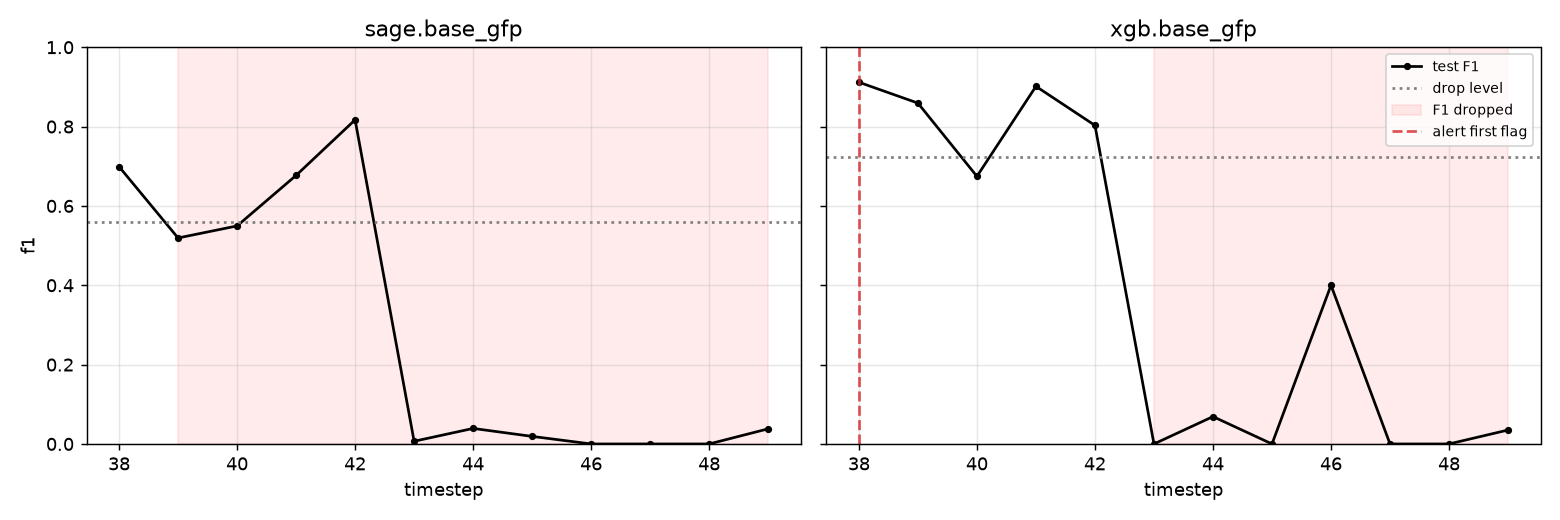
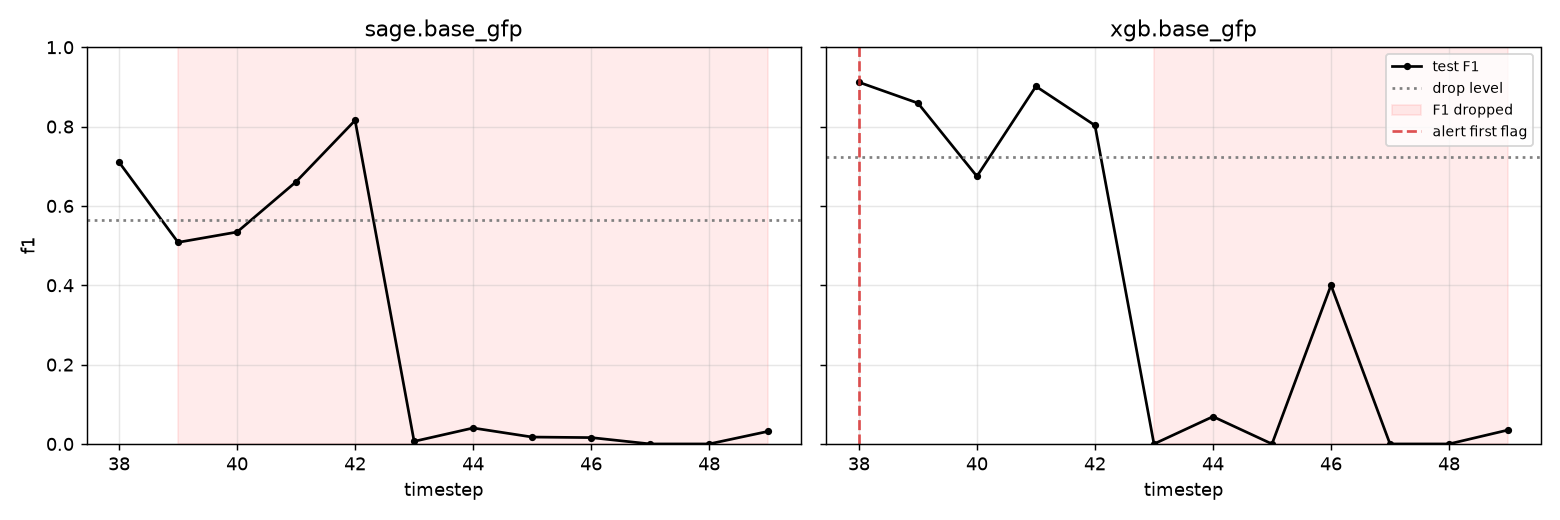
Drift rerun from a clean tree at 7a19cb9; citations and SAGE ranges corrected (PR-R4)
XGBoost rows are bit-identical to the earlier run. SAGE rows move with GPU
nondeterminism: three seeds still dip at t39 and two break at t43, the
calibrated alert flag spans 0.67-0.88 across seeds, and the SAGE event means
move by at most 0.02.

diff --git a/docs/methods.md b/docs/methods.md
@@ -385,7 +385,7 @@ Temporal split, days 0–5 / 6–7 / 8–17 (§9.1), three seeds, from `report/t
 
 On AMLworld the GFP features more than double F1, the reverse of Elliptic. The test window reaches into the post-day-10 laundering tail (§9.1), so the per-day curve (`report/tables/amlworld_xgb_curves.csv`) matters here as it does on Elliptic: on the two realistic test days (8–9) GFP takes F1 from 0.10–0.20 to 0.38–0.45, and from day 10 every config scores PR-AUC above 0.92. The SAGE rows need the Kaggle run in `kaggle/amlworld_sage.md`. The run was made from a working tree with uncommitted changes, and its `-dirty` stamp (§10.2) says so; it is rerun from a clean commit before these numbers are tagged.
 
-### 12.4 Drift monitor on the t43 shutdown (`edf06ea`)
+### 12.4 Drift monitor on the t43 shutdown (`7a19cb9`)
 
 `mulegraph drift --config configs/elliptic_drift.yaml` fits `xgb.base_gfp` and `sage.base_gfp` on the temporal split, then scores every unit from t35 to t49 with no labels (design §3.4, PR-R2). The reference is the validation window t35–37. Four detectors run per batch: maximum PSI over feature columns, the fraction of feature columns whose KS test rejects at 0.01, the KS statistic on the model's scores, and the alert rate, the absolute log ratio of the share of units at or above the validation threshold against the reference share. With textbook flags (PSI > 0.2, KS p < 0.01) every test batch is flagged, because at 2,500–7,000 rows a batch the tests reject almost anything. Each flag is therefore calibrated to the detector's largest leave-one-out score inside the reference window.
 
@@ -401,11 +401,11 @@ A model counts as broken at the first timestep that starts two consecutive batch
 | `xgb.base_gfp` | alert rate | t38 | t43 | +5 |
 | `sage.base_gfp` | all four | never | t39 (3 seeds), t43 (2 seeds) | — |
 
-No detector warns of the collapse. PSI flags t39, t41 and t46 singly and never two in a row. KS on features flags t40, t43, t47 and t49 singly. Score KS flags t49 alone. The alert rate is the one detector whose largest score sits at t43: XGBoost's alerts fall from 4.4% of scored units in the reference window to 1.5%, a score of 1.34 against a calibrated flag of 0.38, the largest signal any detector produces anywhere in the series. It does not hold because at t44 the model alerts at a normal rate again, on the wrong units (§12.5). Its held flag at t38–39 is the opposite movement: alerts rise to 7.6% and 7.3% as the labelled illicit share doubles at t38, and the lead rule, which credits the first held flag of any kind, scores that as +5. It is a flag for a different change, not a warning of the shutdown; a lead-time rule that only credits flags in the same direction as the drop would remove it, and we have not added one. For SAGE the reference timesteps disagree with each other more (calibrated alert flag 0.75–0.78 across seeds) and the alert rate never flags. The SAGE drop at t39 is a dip below the drop level that recovers by t42, not the shutdown. Feature detectors see only features, so their flags are identical across models and seeds, and XGBoost's seeds give identical fits: this is one observation of one event (§11). Tables: `report/tables/elliptic_drift_scores.csv`, `report/tables/elliptic_drift_lead_time.csv`.
+No detector warns of the collapse. PSI flags t39, t41 and t46 singly and never two in a row. KS on features flags t40, t43, t47 and t49 singly. Score KS flags t49 alone. The alert rate is the one detector whose largest score sits at t43: XGBoost's alerts fall from 4.4% of scored units in the reference window to 1.5%, a score of 1.34 against a calibrated flag of 0.38, the largest signal any detector produces anywhere in the series. It does not hold because at t44 the model alerts at a normal rate again, on the wrong units (§12.5). Its held flag at t38–39 is the opposite movement: alerts rise to 7.6% and 7.3% as the labelled illicit share doubles at t38, and the lead rule, which credits the first held flag of any kind, scores that as +5. It is a flag for a different change, not a warning of the shutdown; a lead-time rule that only credits flags in the same direction as the drop would remove it, and we have not added one. For SAGE the reference timesteps disagree with each other more (calibrated alert flag 0.67–0.88 across seeds) and the alert rate never flags. The SAGE drop at t39 is a dip below the drop level that recovers by t42, not the shutdown. Feature detectors see only features, so their flags are identical across models and seeds, and XGBoost's seeds give identical fits: this is one observation of one event (§11). Tables: `report/tables/elliptic_drift_scores.csv`, `report/tables/elliptic_drift_lead_time.csv`.
 
 ### 12.5 Why t43 breaks every model and every detector (`8c28027`)
 
-The same drift run, with `drift.event: 43`, splits the labelled test units at t43 (design §3.4 step 5, PR-R5). For each side it records how the fitted model transfers, and it refits a probe: XGBoost with library defaults, 5-fold stratified CV inside that window alone. From `report/tables/elliptic_drift_event.csv` at `8c28027`; the `edf06ea` rerun reproduces the XGBoost rows bit for bit and moves the SAGE means by under 0.01 (GPU nondeterminism, §6.2). SAGE is the mean over five seeds with the range in brackets, and XGBoost's seeds are identical.
+The same drift run, with `drift.event: 43`, splits the labelled test units at t43 (design §3.4 step 5, PR-R5). For each side it records how the fitted model transfers, and it refits a probe: XGBoost with library defaults, 5-fold stratified CV inside that window alone. From `report/tables/elliptic_drift_event.csv` at `8c28027`; the `7a19cb9` rerun reproduces the XGBoost rows bit for bit and moves the SAGE means by at most 0.02 (GPU nondeterminism, §6.2). SAGE is the mean over five seeds with the range in brackets, and XGBoost's seeds are identical.
 
 | | t38–42 | t43–49 |
 |---|---|---|

diff --git a/docs/changelog.md b/docs/changelog.md
@@ -10,7 +10,7 @@ Project history, newest first. Add a dated entry for every tag and every change 
 - **Added** the `temporal_rolling` regime (`34db885`; PR-E7). The temporal window slides forward one batch per test batch; each step is an ordinary temporal split through the same builder, leakage assertions and cache, thresholds on its own validation window (PR-E4) and scores one test batch. The step test sets are stitched into one MLflow child run per (model, seed) with a per-row threshold, so `n_seeds` counts seeds, not refits. Rank metrics are not logged for a rolling run (twelve models do not share a score scale); per-batch PR-AUC is in the curve, and each step's threshold, val_f1, val_pr_auc and best_iteration are logged at `step=t`. `configs/elliptic_rolling.yaml` runs fixed vs rolling on the two-by-two (260 fits). Design §1 narrows the out-of-scope line from "retraining-policy simulation" to policies beyond this one zero-lag refit.
 - **Added** the alert-rate detector (`ea5ecce`; PR-R1): the absolute log ratio of the share of scored units at or above the validation-chosen threshold against the reference share. It sees scores and the threshold only (PR-R2); `score_batches` takes `threshold` and `alert_flag`. `configs/elliptic_drift.yaml` runs it.
 - **Fixed** PSI (`ea5ecce`). Importing snapml enables flush-to-zero for the process, so the subnormal cut placed above a constant reference value collapsed onto it and PSI scored 0 for any shift in a constant column, on every real run. Bins are now (a, b] at every distinct reference quantile but the maximum, which also gives binary columns a cut. Found as a test that passed alone and failed after the pipeline tests; the test now imports snapml first.
-- **Reran** the drift config at `edf06ea` (3 min 26 s). With the fixed bins PSI's calibrated flag is 1.90 (was 1.52) and it never holds a flag (the t48 hold is gone); KS and score KS never hold, as before. The alert rate is the one detector whose largest score sits at t43 (1.34 against a flag of 0.38: XGBoost's alerts fall from 4.4% of units to 1.5%) but it does not hold, and its held flag at t38–39 is alerts rising with the illicit share, which the lead rule credits as +5. XGBoost event rows are bit-identical to `8c28027`; SAGE rows move by under 0.01. README, methods §12.4–12.5 and the status notes rewritten accordingly; a domain-classifier detector was probed and rejected (ROC-AUC ≥ 0.99 for every timestep against the reference).
+- **Reran** the drift config from a clean tree at `7a19cb9` (3 min 26 s). With the fixed bins PSI's calibrated flag is 1.90 (was 1.52) and it never holds a flag (the t48 hold is gone); KS and score KS never hold, as before. The alert rate is the one detector whose largest score sits at t43 (1.34 against a flag of 0.38: XGBoost's alerts fall from 4.4% of units to 1.5%) but it does not hold, and its held flag at t38–39 is alerts rising with the illicit share, which the lead rule credits as +5. XGBoost event rows are bit-identical to `8c28027`; SAGE rows move by at most 0.02. README, methods §12.4–12.5 and the status notes rewritten accordingly; a domain-classifier detector was probed and rejected (ROC-AUC ≥ 0.99 for every timestep against the reference).
 
 ### 19 Sep 2026 — Why t43 breaks everything: the event diagnosis
 - **Added** `drift.event` and `eval/event.py` (`8c28027`; PR-R5). With it set, `mulegraph drift` writes `report/tables/<experiment>_event.csv`: per side of the event batch, the fitted model's ROC-AUC, recall at the validation threshold and median illicit score, beside a 5-fold refit probe of XGBoost defaults inside that window alone. `configs/elliptic_drift.yaml` sets `event: 43`.

diff --git a/docs/project_status.md b/docs/project_status.md
@@ -28,7 +28,7 @@ Facts that constrain the code, verified on fixtures and kept here instead of in 
 - **Elliptic temporal test is two regimes in one.** Test F1 is 0.83–0.89 on t38–42 and 0.02–0.03 on t43–49, after the dark-market shutdown; 169 of the 828 test illicit nodes fall after t43. Validation (t35–37) precedes the shutdown, so val F1 ≈ 0.93 does not predict test. This is also why P@R0.8 is ≈ 0.2 for every model: reaching 80% recall means reaching into the post-shutdown cases no model detects. The per-timestep curves are what make the headline mean readable. The post-t43 window is not noise: refit inside it alone, XGBoost defaults reach CV ROC-AUC 0.985 (`elliptic_drift_event.csv`), so the shutdown changed the illicit pattern rather than erasing it.
 - **The t43 collapse is concept drift plus staleness, not overfitting, and recovery is label-count bound** (read-only probe on the cached features, 19 Sep 2026; the committed numbers are the `elliptic_rolling` run, methods §12.6). A model refit on labels up to t40 ranks post-t43 units at ROC-AUC 0.84–0.95 where the fixed t≤34 model gets 0.61–0.72, so the ranking is recoverable from one refit, but F1 stays ≤ 0.19 until t49 because only 2–36 illicit nodes exist per timestep after the shutdown and the validation-chosen threshold cannot relearn until roughly 70 post-shift illicit labels have accrued; a model fit on t43–47 alone reaches F1 0.79–0.83 at t49. `base` and `base_gfp` behave the same. No label-free method can supply what the labels supply.
 - **A domain-classifier detector is saturated on Elliptic** (same probe). XGBoost defaults separate every test timestep from the reference window at ROC-AUC ≥ 0.99, t38 to t49 alike, so the two-sample-classifier test (Lopez-Paz and Oquab 2017) cannot single out t43; not added.
-- **The alert rate is the only detector that peaks at t43** (`drift/detectors.py`, `edf06ea`). XGBoost's share of alerts falls from 4.4% to 1.5% at t43 (score 1.34 against a calibrated flag of 0.38) and recovers at t44 because the model fires on the wrong units, so it never holds. Its t38–39 flags are alerts rising with the illicit share.
+- **The alert rate is the only detector that peaks at t43** (`drift/detectors.py`, `ea5ecce`; run `7a19cb9`). XGBoost's share of alerts falls from 4.4% to 1.5% at t43 (score 1.34 against a calibrated flag of 0.38) and recovers at t44 because the model fires on the wrong units, so it never holds. Its t38–39 flags are alerts rising with the illicit share.
 - **snapml sets flush-to-zero for the process** (`drift/detectors.py`, `ea5ecce`). After `import snapml`, `5e-324 + 0.0 == 0.0`, so a subnormal PSI cut above a constant reference value collapsed onto it and PSI was blind to shifts in constant columns on every real run. PSI bins are (a, b] at every distinct reference quantile but the maximum; the regression test imports snapml first. Anything else that relies on subnormal arithmetic after the feature builder has run is suspect.
 - **Threshold ties go to the higher threshold** (`eval/threshold.py`): same F1, fewer alerts.
 - **Two intervals, never pooled** (`eval/intervals.py`, PR-E3). The across-seed t-interval (n = 5; a normal interval would be ~⅓ too narrow) is the only basis for significance. A bootstrap over test ids is narrow regardless of training instability and is used only for per-timestep bands.

diff --git a/README.md b/README.md
@@ -74,7 +74,7 @@ score of 1.34 against a calibrated flag of 0.38, the largest signal any detector
 It does not hold: at t44 the model fires again at a normal rate, on the wrong units. Its held flag
 at t38–39 is the opposite movement, alerts rising to 7.6% as the illicit share doubles at t38, so
 the lead of +5 the rule assigns is credit for a different change, not a warning of the shutdown.
-For SAGE the reference timesteps disagree with each other more (flag 0.75–0.78) and the alert rate
+For SAGE the reference timesteps disagree with each other more (flag 0.67–0.88) and the alert rate
 never flags.
 
 \*The SAGE drop is not the collapse. In three of five seeds SAGE's F1 sits just below its drop
